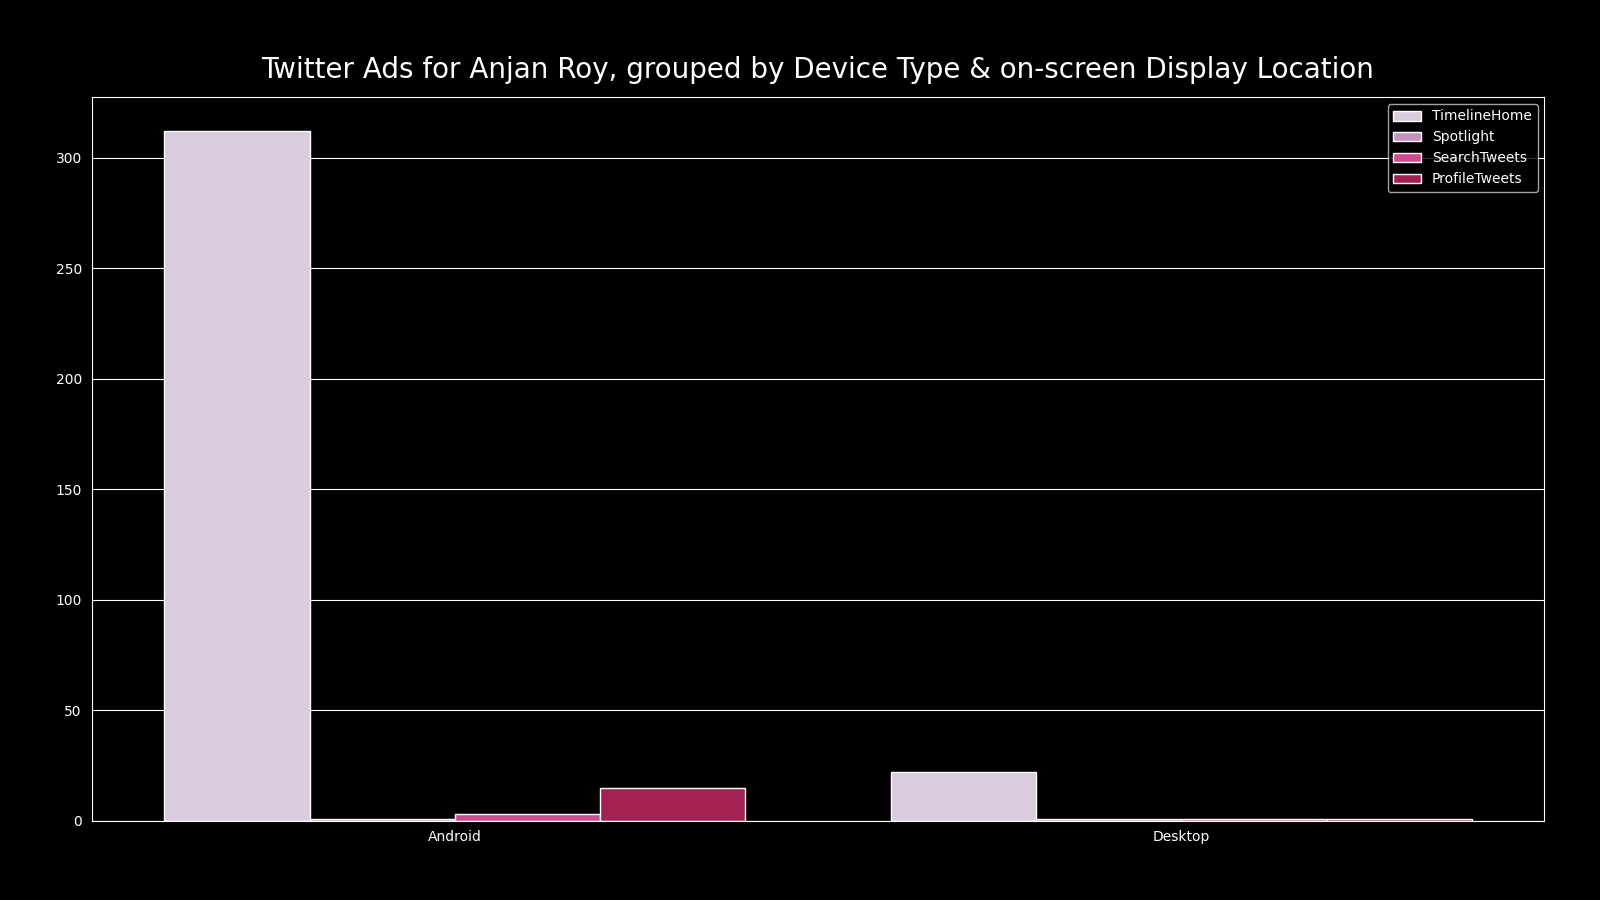
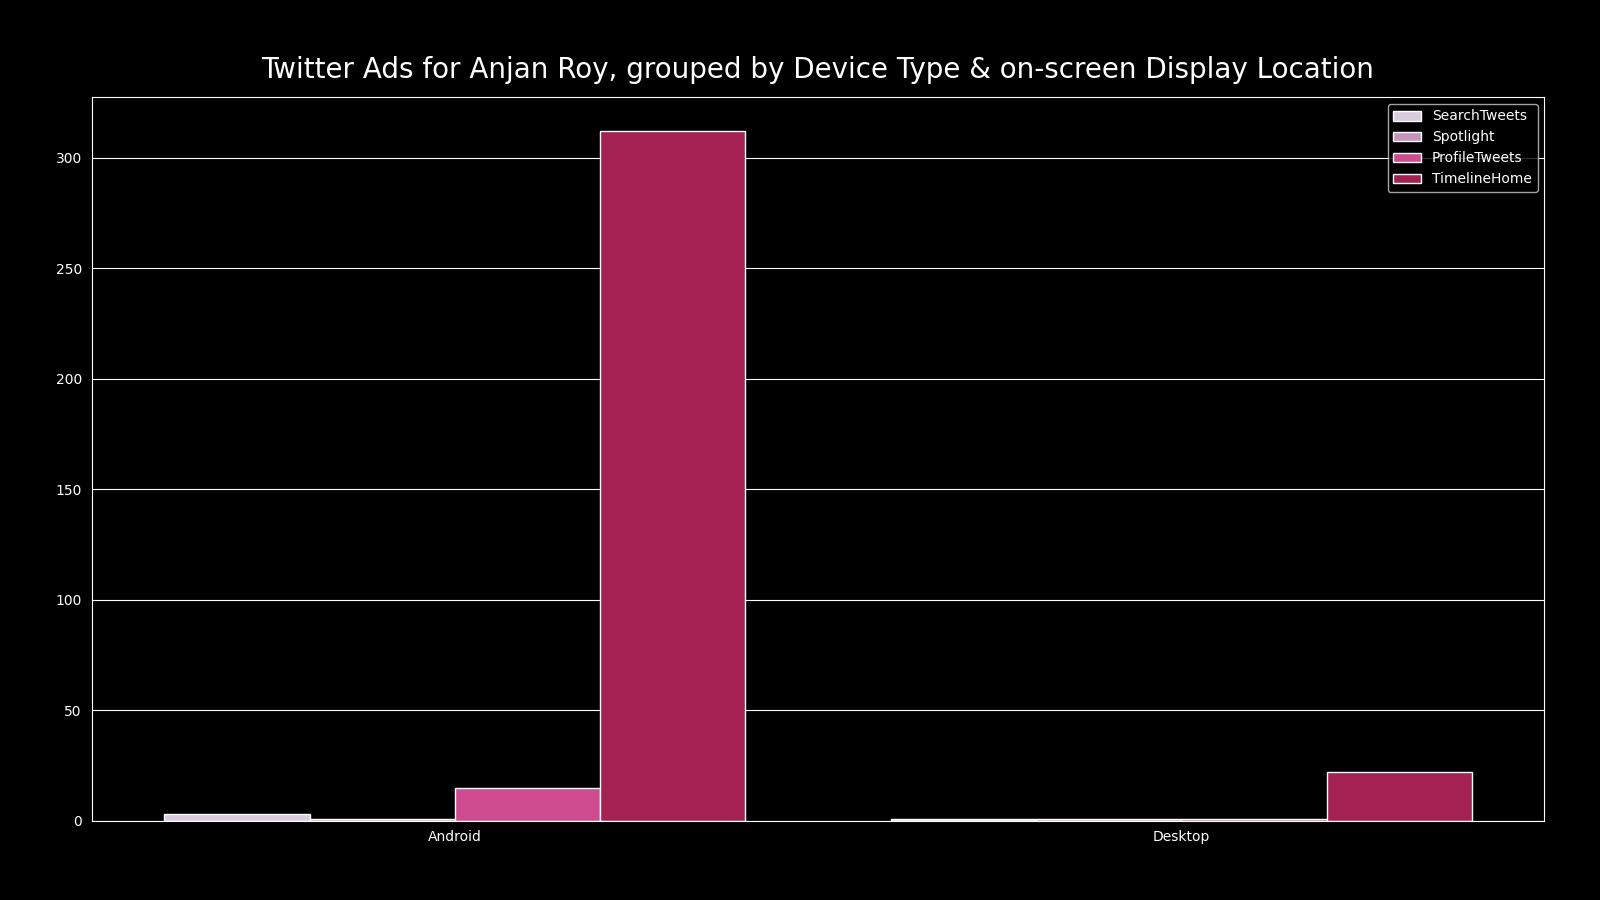
converted from sequence of dict keys to list

diff --git a/twiz/plot/ad/engagement/viz.py b/twiz/plot/ad/engagement/viz.py
@@ -317,7 +317,7 @@ def _prepareDataForPlottingAdTargetCriteriaUsageGroupedByType(data: Engagements)
         tuple of ad target criteria type & respective X, Y -axis value to be plotted.
     '''
     def _extractXAndY(v: Counter) -> Tuple[List[str], List[str]]:
-        _x = v.keys()
+        _x = list(v.keys())
         _y = [v[i] for i in _x]
 
         return _x, _y
